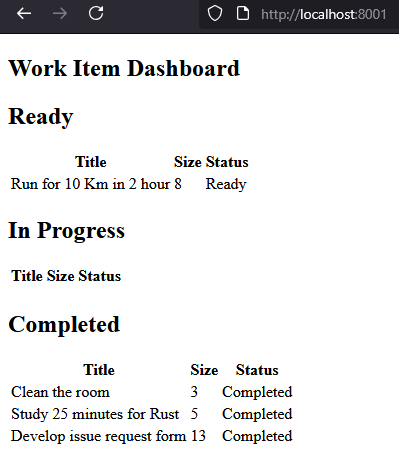
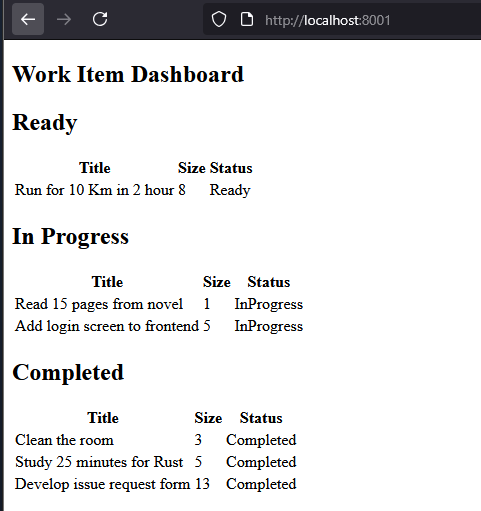
Fixed bug.

Changed region(s): [[0.0, 0.0, 1.0, 1.0], [0.4812, 0.5289, 0.6316, 0.6533], [0.1504, 0.0, 0.1805, 0.0311]]

diff --git a/src/ingress/web/src/App.vue b/src/ingress/web/src/App.vue
@@ -9,13 +9,24 @@ const loading = ref(true);
 const error = ref<string | null>(null);
 
 onMounted(async () => {
-  const result = await getAll();
-  if ('data' in result) {
-    data.value = result.data;
-  } else {
-    error.value = result.error ?? 'Unknown error';
+  try {
+    const result = await getAll();
+
+    if (result
+        && typeof result === 'object'
+        && 'data' in result) {
+      data.value = result.data;
+    } else if (result && 'error' in result) {
+      error.value = result.error ?? 'Unknown error';
+    } else {
+      error.value = 'Unexpected API response';
+    }
+  } catch (e) {
+    error.value = 'Unexpected error occurred while fetching data';
+    console.error(e);
+  } finally {
+    loading.value = false;
   }
-  loading.value = false;
 });
 </script>
 
@@ -26,7 +37,7 @@ onMounted(async () => {
     <p v-else-if="error">Error: {{ error }}</p>
     <div v-else>
       <WorkItemTable title="Ready" :items="data?.ready ?? []"/>
-      <WorkItemTable title="In Progress" :items="data?.inProgress ?? []"/>
+      <WorkItemTable title="In Progress" :items="data?.in_progress ?? []"/>
       <WorkItemTable title="Completed" :items="data?.completed ?? []"/>
     </div>
   </div>

diff --git a/src/ingress/web/src/api/get.ts b/src/ingress/web/src/api/get.ts
@@ -3,7 +3,12 @@ import {Url} from "./url";
 import {WorkItems} from "../interfaces/workItems";
 
 export default async function getAll() {
-    await getCall<WorkItems>(
-        new Url().getAll, 200
-    )
+    try {
+        return await getCall<WorkItems>(
+            new Url().getAll, 200
+        );
+    } catch (e) {
+        console.error("Exception in getAll:", e);
+        return {status: 500, error: "getAll failed"};
+    }
 }

diff --git a/src/ingress/web/src/interfaces/workItems.ts b/src/ingress/web/src/interfaces/workItems.ts
@@ -2,6 +2,6 @@ import {WorkItem} from "./workItem";
 
 export interface WorkItems {
     ready: WorkItem[];
-    inProgress: WorkItem[];
+    in_progress: WorkItem[];
     completed: WorkItem[];
 }
